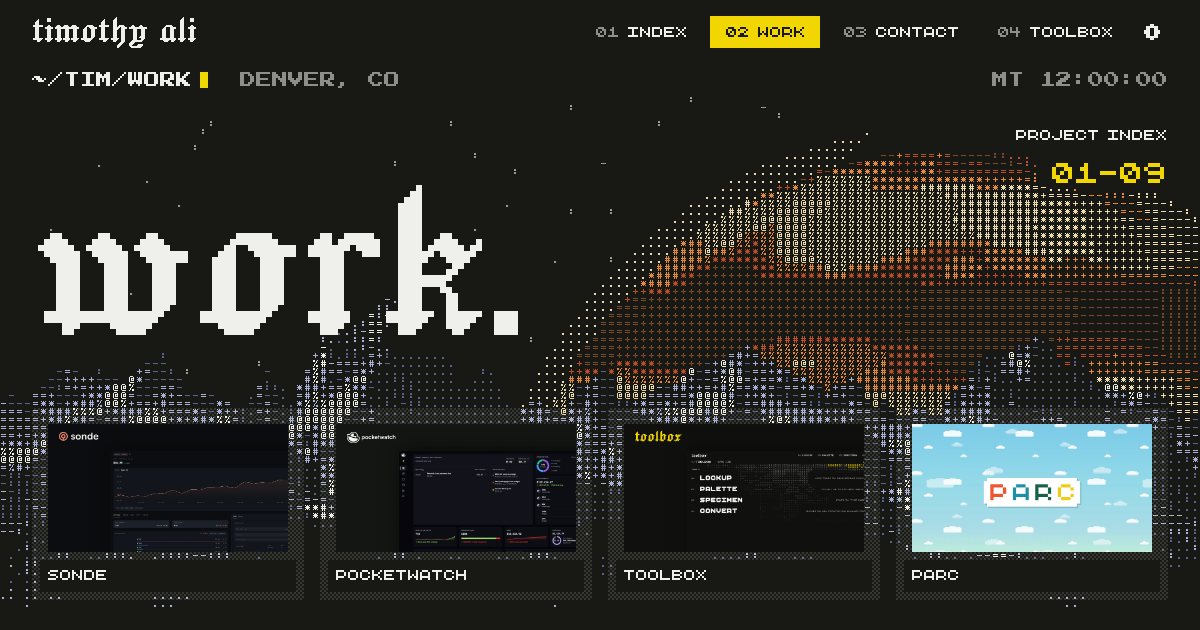
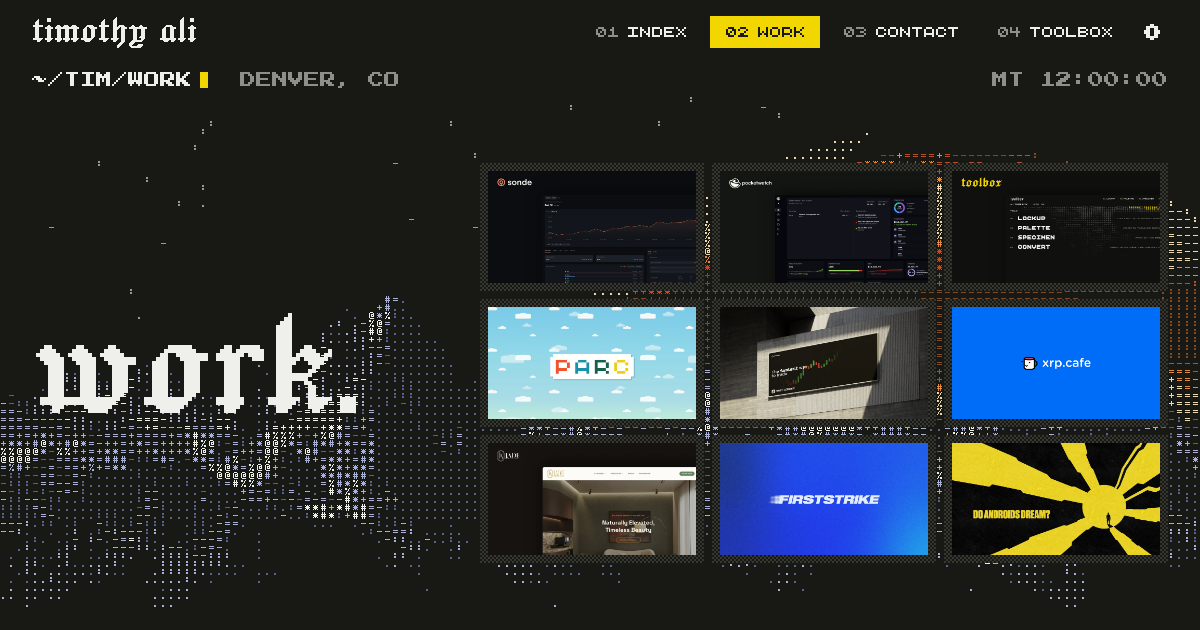
The Work share image is the card grid (PX-96, 0198)

Changed region(s): [[0.0, 0.2111, 0.9867, 0.9651]]

diff --git a/src/routes/og/[id]/+page.svelte b/src/routes/og/[id]/+page.svelte
@@ -7,10 +7,9 @@
   import Cursor from '$lib/components/Cursor.svelte';
   import Arrow from '$lib/components/Arrow.svelte';
   import Cta from '$lib/components/Cta.svelte';
-  import IndexRow from '$lib/components/IndexRow.svelte';
   import MetaLine from '$lib/components/MetaLine.svelte';
   import Picture from '$lib/components/Picture.svelte';
-  import { projects, last } from '$lib/work';
+  import { projects, index } from '$lib/work';
   import { hasStudyScene } from '$lib/studyScenes';
   import { STEP, STEP_SLOW } from '$lib/tokens';
   import { onMount } from 'svelte';
@@ -55,13 +54,12 @@
       <Cta href="https://www.timothyali.com" class="lbl story-cta">timothyali.com <Arrow /></Cta>
     </Band>
   {:else if data.id === 'work'}
-    <Band class="og-work" mode="scene" shot="strip" sceneSpan="box" mountains="a" seed={5} palette="scene" cell={8} px={1} hug pad={0} feather={3} depth={0.6} avoid=".og-head h1" clear=".og-head > :last-child">
-      <div class="og-head">
-        <h1 class="blackletter display-xl">work.</h1>
-        <IndexRow label="Project index" value={`01–${last}`} layout="column" accent />
-      </div>
-      <div class="og-covers">
-        {#each projects as p}<div class="card og-card"><Picture src={p.cover.src} alt="" width={p.cover.w} height={p.cover.h} eager /><span class="lbl">{p.title}</span></div>{/each}
+    <!-- the Work page at share size (0198): “work.” and a card for every study, the covers on the
+         card mat, no counters -->
+    <Band class="og-work" mode="scene" shot="strip" sceneSpan="box" mountains="a" seed={5} palette="scene" cell={8} px={1} hug pad={0} feather={3} depth={0.6} avoid=".og-work h1">
+      <h1 class="blackletter og-work-title">work.</h1>
+      <div class="og-grid">
+        {#each [...projects, ...index] as p}<div class="card og-card"><Picture src={p.cover.src} alt="" width={p.cover.w} height={p.cover.h} eager /></div>{/each}
       </div>
     </Band>
   {:else if data.id === 'contact'}
@@ -133,10 +131,10 @@
 .og-name{position:absolute;left:var(--gutter);top:calc(20 * var(--u));font-size:344px;line-height:344px;white-space:nowrap}
 
 /* Work — the page head, then the selected four as cards */
-.og-head{display:flex;justify-content:space-between;align-items:flex-start}
-.og-covers{display:grid;grid-template-columns:repeat(4,calc((100% - 3 * var(--s2)) / 4));gap:var(--s2);margin-top:var(--s2)}
-.og-card{gap:var(--s1)}
-.og-card .lbl{display:block;background:var(--paper);margin:0 calc(-1 * var(--s1)) calc(-1 * var(--s1));padding:var(--s1)}
+.og :global(.og-work){display:grid;grid-template-columns:minmax(0,1fr) 688px;gap:var(--s4);align-items:center}
+.og-work-title{font-size:172px;line-height:176px;margin:0}
+.og-grid{display:grid;grid-template-columns:repeat(3,minmax(0,1fr));gap:var(--s1)}
+.og-card{padding:var(--s1);gap:0;background:var(--surface-card),var(--paper)}
 
 /* Contact — the page's own head */
 .og :global(.og-contact h1){display:flex;flex-direction:column;gap:var(--s2)}

diff --git a/docs/iteration-log.md b/docs/iteration-log.md
@@ -877,3 +877,7 @@ Deploy (2026-10-13): PX-92 pushed as `0a9a310`; live about 4 min later (`/hero/m
 `home/WorkList.svelte` rewritten: sr-only heading, `.cards` of `.card` links (Picture, `.card-body` with `h3.display-s` + `Arrow` + `p.body.desc`), “All work”; `.list .card` layers `--surface-card` over `--paper`. `work/+page.svelte`: header is “work.” alone; `.cards` of every visible study (`[...projects, ...index]`, `h2`), the entries list removed; PageFoot note empty; unused imports (`Cta`, `IndexRow`, `MetaLine`, `total`, `last`) removed. `blocks.css`: `.card-body .desc` spans the row; the ≤900 card title size covers `h2`; `[data-fit="27"]` in a card body. `+page.svelte` clear list drops `.index-row > span, .row-copy > *`. `home/Invite.svelte`: column layout, `.intro` 55/64 (41.25/48 ≤1300), link 448px (100% ≤700). No overflow at 320–1440 (a 901px overflow from “POCKETWATCH” fixed by `fitTitle`); `px61` updated to count `.list .card` and passes; no page errors. Work page 2808 → 3664 at 1440 (nine covers). Evidence: `docs/iterations/pixel-v2/94-work-grid/` (`all-sheet.png`) and `95-invite/sheet.png`.
 
 Deploy (2026-10-13): PX-93 to PX-95 pushed as `68005f9` on Timothy's “commit and push”; live about 4 min later (the Work page serves the card grid; Home, Work, Toolbox, a tool page and Contact answered 200).
+
+## PX-96 — Work share image (2026-10-13, 0198)
+
+`og/[id]` work: `.og-work` grid (title column | 688px), `.og-grid` 3 columns of `.card.og-card` over `[...projects, ...index]`; `IndexRow` and `last` imports removed. `static/og/work.png` regenerated; `social:verify` passes. Evidence: `docs/iterations/pixel-v2/96-work-share/work.png`.

diff --git a/docs/decision-log.md b/docs/decision-log.md
@@ -2357,3 +2357,11 @@ Seeing it, Timothy asked for “slightly darker”. Five candidates were rendere
 - **Decision:** laid out as Contact's head: “Tell me what you're” (Contact's display style, not the lead face) directly over “building.”, the link 448px wide right under them, all from the left. It was split across the page with the word and the link on the right.
 - **Assistant's choices inside it:** matching Contact, the 448px link.
 - **Status:** his direction; committed and pushed on his “commit and push” (2026-10-13).
+
+## 0198 — The Work share image is the card grid
+
+- **Date:** 2026-10-13
+- **Direction:** Timothy: “redo the work share image”.
+- **Decision:** “work.” at 172px on the left, a 3×3 grid of cards on the right, one per study, the cover on the card mat (no titles, no counter); the mountain strip behind as before. Replaces the head with “Project index 01–09” and four labelled covers.
+- **Assistant's choices inside it:** the composition, covers without titles.
+- **Status:** his direction; committed and pushed on his “push” (2026-10-14).
